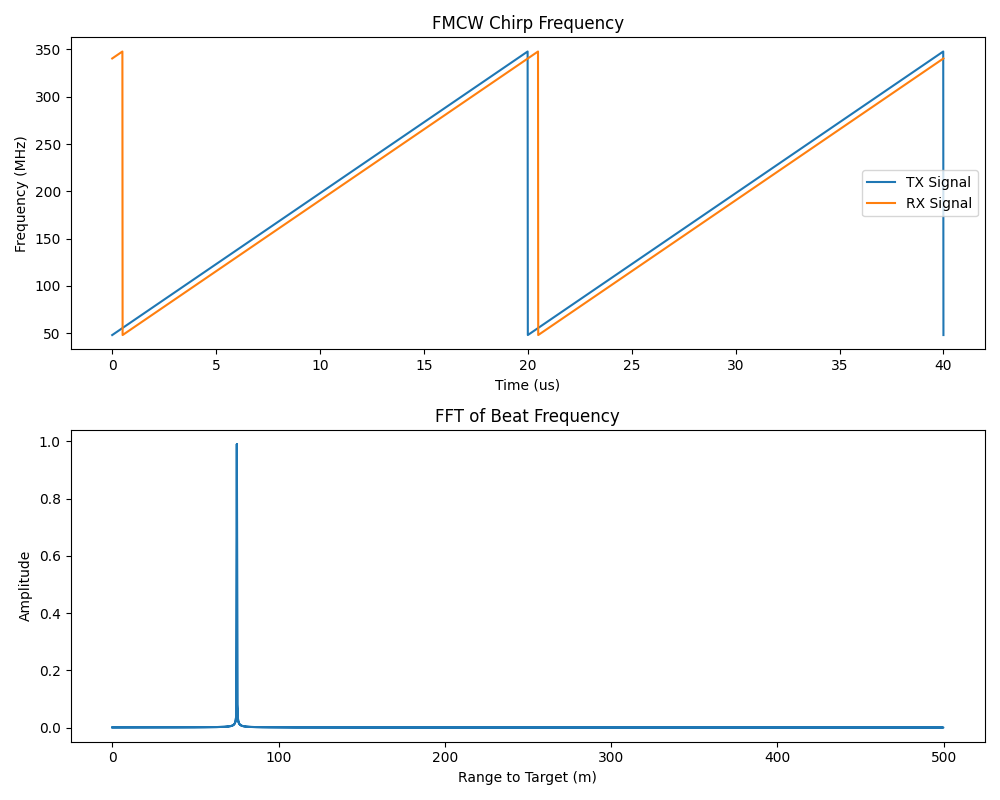
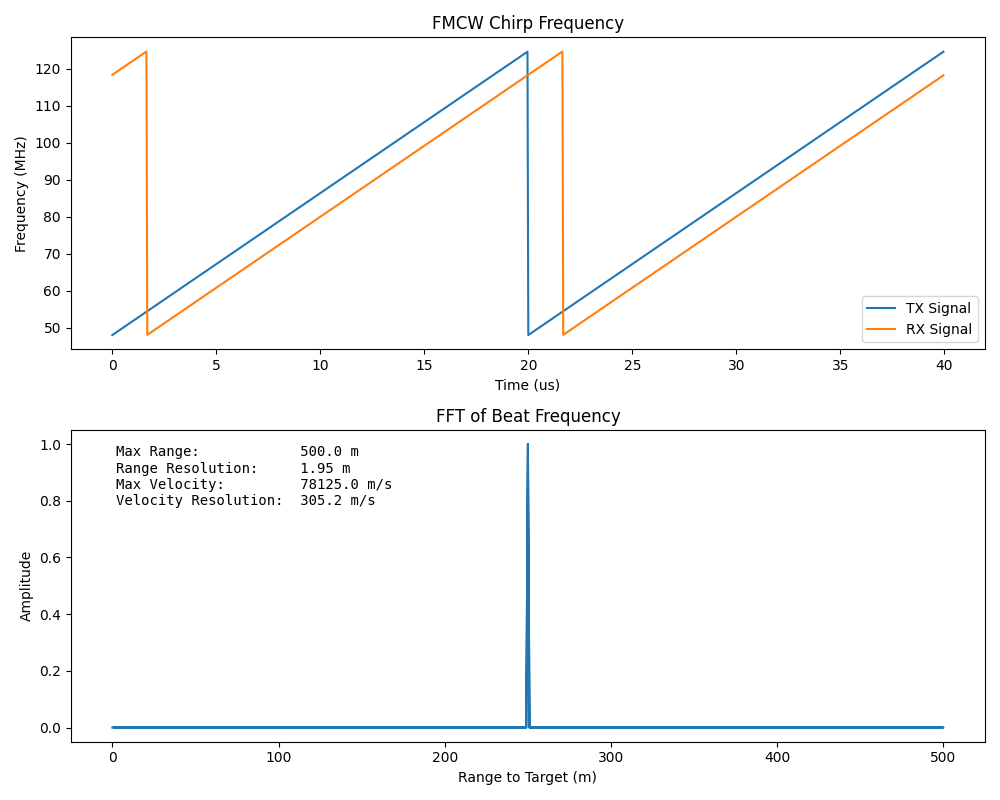
equation corrections

diff --git a/fmcw_range.py b/fmcw_range.py
@@ -7,30 +7,28 @@ RANGE DETERMINATION OVER ONE CHIRP
 
 # CONSTANTS
 c = 3e8  # Speed of light in meters per second
+fc = 48e6  # (Hz) carrier frequency
 
 # TARGET PARAMETERS
-r = 75  # (m) target range
-v = 20  # (m/s) target velocity
+r = 250  # (m) target range
+v = 15  # (m/s) target velocity
 rad = 0 * np.pi / 180  # (radians) angle of arrival
+
+# DETECTOR (ADC + Signal Generator)
+Nchirp = 512  # sample period of chirp
+chirpPeriods = 2  # number of chirp periods in measurement
+N = Nchirp * chirpPeriods  # sample period of measurement
 
 # RANGE PARAMETERS
 Rmax = 500  # (m) max range
-Rres = 0.5  # (m) range resolution
+Rres = 2 * Rmax / Nchirp  # (m) range resolution
 
-# DETECTOR (ADC + Signal Generator)
-chirpPeriods = 2
-Nchirp = 512
-N = chirpPeriods * Nchirp  # sample period of measurement
-BW = (c / (2 * Rres))  # (Hz) Bandwidth (sets range resolution)
-
-# SIGNAL PARAMETERS
-fc = 48e6  # (Hz) carrier frequency
-lambda_val = c / fc  # Radar wavelength
+BW = c / (2 * Rres)  # (Hz) Bandwidth (sets range resolution)
 Tchirp = 6 * (2 * Rmax / c)  # (s) chirp period (sweep time)
-f_slope = BW / Tchirp  # chirp slope (rise/run)
+m_slope = BW / Tchirp  # chirp slope (rise/run)
 
-# DETECTOR CHARACTERISTICS
-Vmax = lambda_val / (4 * Tchirp)  # (m/s) max detectable velocity
+# VELOCITY CHARACTERISTICS
+Vmax = c / (4 * fc * Tchirp)  # (m/s) max detectable velocity
 Vres = 2 * Vmax / Nchirp  # (m/s) velocity resolution
 
 # SAMPLING PARAMETERS
@@ -42,12 +40,12 @@ dt = 1 / fs  # time step
 t = np.arange(0, chirpPeriods * Tchirp, dt)  # Time of Tx and Rx
 
 # Local Oscillator of the detector
-f_tx = fc + f_slope * (t % Tchirp)
+f_tx = fc + m_slope * (t % Tchirp)
 
 # Reflected Signal
 time_delay = 2 * r / c
 doppler_shift = 2 * v * fc / c
-f_rx = fc + f_slope * ((t - time_delay) % Tchirp) - doppler_shift
+f_rx = fc + m_slope * ((t - time_delay) % Tchirp) - doppler_shift
 
 # Calculate the beat signal (difference between RX and TX frequencies)
 f_beat = f_rx - f_tx  # f2(t) - f1(t)
@@ -60,7 +58,7 @@ fft_normalize = 2 * np.abs(fft_result) / len(fft_result)
 frequency_bins = np.fft.fftfreq(len(fft_normalize), d=dt)
 
 # convert spectrum to range distance
-range_target = np.abs(((c / 2) * (frequency_bins / f_slope)))
+range_target = np.abs(((c / 2) * (frequency_bins / m_slope)))
 
 # Plot the results
 plt.figure(figsize=(10, 8))
@@ -79,7 +77,21 @@ plt.plot(range_target, fft_normalize)
 plt.xlabel("Range to Target (m)")
 plt.ylabel("Amplitude")
 plt.title("FFT of Beat Frequency")
+text_str = (
+    f"{'{:<22}'.format('Max Range:')}{Rmax:.1f} m\n"
+    f"{'{:<22}'.format('Range Resolution:')}{Rres:.2f} m\n"
+    f"{'{:<22}'.format('Max Velocity:')}{Vmax:.1f} m/s\n"
+    f"{'{:<22}'.format('Velocity Resolution:')}{Vres:.1f} m/s"
+)
+plt.annotate(
+    text_str,
+    xy=(0.05, 0.95),
+    xycoords="axes fraction",
+    fontsize=10,
+    fontfamily="monospace",
+    verticalalignment="top",
+)
 
 plt.tight_layout()
-plt.savefig('range.png')
+plt.savefig("range.png")
 plt.show()

diff --git a/fmcw_velocity.py b/fmcw_velocity.py
@@ -7,30 +7,28 @@ RANGE + VELOCITY DETERMINATION OVER ONE CHIRP
 
 # CONSTANTS
 c = 3e8  # Speed of light in meters per second
+fc = 77e9  # (Hz) carrier frequency
 
 # TARGET PARAMETERS
 r = 250  # (m) target range
 v = 15  # (m/s) target velocity
 rad = 0 * np.pi / 180  # (radians) angle of arrival
 
+# DETECTOR (ADC + Signal Generator)
+Nchirp = 512  # sample period of chirp
+chirpPeriods = 64  # number of chirp periods in measurement
+N = Nchirp * chirpPeriods  # sample period of measurement
+
 # RANGE PARAMETERS
 Rmax = 500  # (m) max range
+Rres = 2 * Rmax / Nchirp  # (m) range resolution
 
-# DETECTOR (ADC + Signal Generator)
-chirpPeriods = 64
-Nchirp = 512
-N = chirpPeriods * Nchirp  # sample period of measurement
-BW = Nchirp * (c / (4 * Rmax))  # (Hz) Bandwidth (sets range resolution)
-
-# SIGNAL PARAMETERS
-fc = 77e9  # (Hz) carrier frequency
-lambda_val = c / fc  # Radar wavelength
+BW = c / (2 * Rres)  # (Hz) Bandwidth (sets range resolution)
 Tchirp = 6 * (2 * Rmax / c)  # (s) chirp period (sweep time)
 m_slope = BW / Tchirp  # chirp slope (rise/run)
 
-# DETECTOR CHARACTERISTICS
-Rres = c / (2 * BW)  # (m) range resolution
-Vmax = lambda_val / (4 * Tchirp)  # (m/s) max detectable velocity
+# VELOCITY CHARACTERISTICS
+Vmax = c / (4 * fc * Tchirp)  # (m/s) max detectable velocity
 Vres = 2 * Vmax / Nchirp  # (m/s) velocity resolution
 
 # SAMPLING PARAMETERS
@@ -86,17 +84,31 @@ plt.xlabel("Time (us)")
 plt.ylabel("Frequency (GHz)")
 plt.legend()
 
-# RANGE FFT OF  RAMP AS A FUNCTION OF TIME
-chirp0 = rdm[0]
+# RANGE FFT OF RAMP AS A FUNCTION OF TIME
+chirp0 = rdm[:, : Nchirp // 2][0]
 
 # additional factor of 2 to compensate for half the energy of the original signal
 range_normalized = np.abs(chirp0) / np.max(np.abs(chirp0))
 
 plt.subplot(2, 2, 3)
-plt.plot(rangeBin[0: Nchirp // 2], range_normalized[0: Nchirp // 2])
+plt.plot(rangeBin, range_normalized)
 plt.xlabel("Range to Target (m)")
 plt.ylabel("Amplitude")
 plt.title("FFT of Beat Frequency")
+text_str = (
+    f"{'{:<22}'.format('Max Range:')}{Rmax:.1f} m\n"
+    f"{'{:<22}'.format('Range Resolution:')}{Rres:.2f} m\n"
+    f"{'{:<22}'.format('Max Velocity:')}{Vmax:.1f} m/s\n"
+    f"{'{:<22}'.format('Velocity Resolution:')}{Vres:.1f} m/s"
+)
+plt.annotate(
+    text_str,
+    xy=(0.05, 0.95),
+    xycoords="axes fraction",
+    fontsize=6,
+    fontfamily="monospace",
+    verticalalignment="top",
+)
 
 # RANGE-DOPPLER DATA MAPPED TO IMAGE FRAME
 rdm_image = 20 * np.log10(np.abs(rdm[:, : Nchirp // 2]))
@@ -117,7 +129,7 @@ plt.grid(True)
 
 # PLOT
 plt.tight_layout()
-plt.savefig('range_doppler_map.png')
+plt.savefig("range_doppler_map.png")
 plt.show()
 
 # data
@@ -126,6 +138,7 @@ print("Chirp sample length (Nchirp):", Nchirp)
 print("meausrement capture window (N):", N)
 print("measurement sample rate (fs):", fs)
 print("")
+print("Bandwidth:", BW)
 print("Range Resolution (m):", Rres)
 print("max Range (m):", Rmax)
 print("Range Resolution (m):", Rres)
